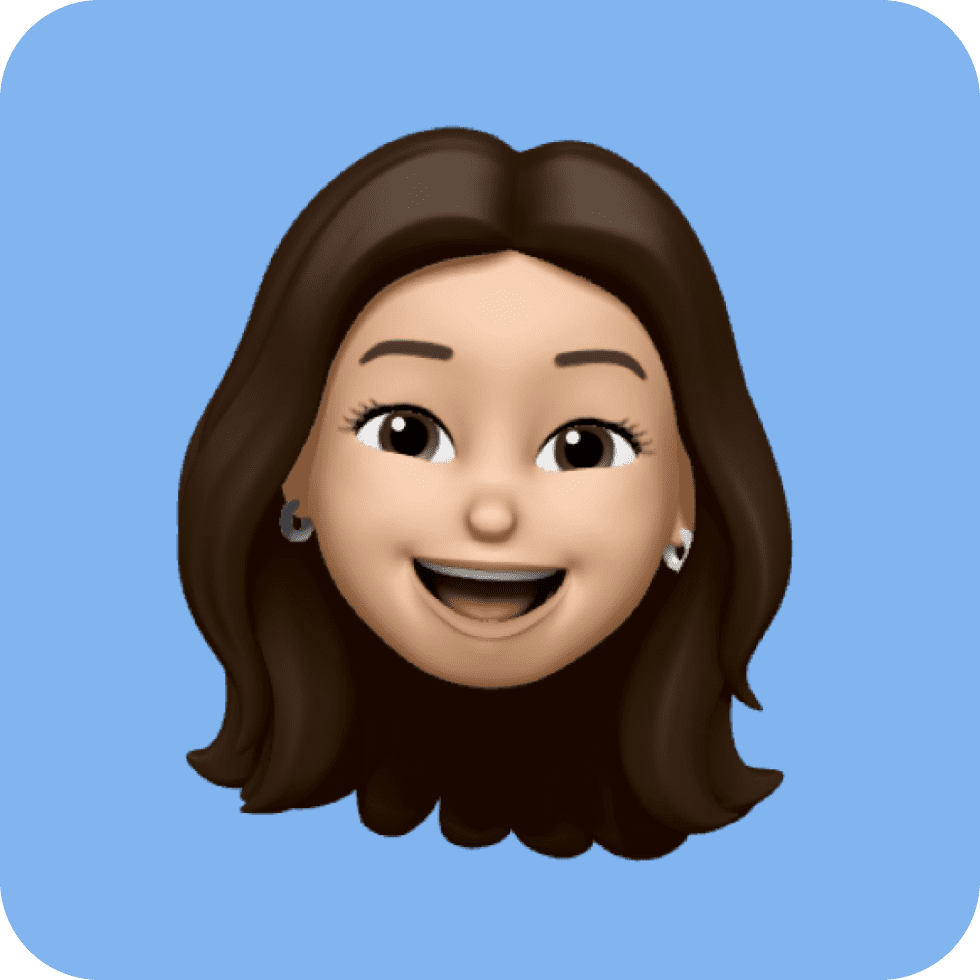
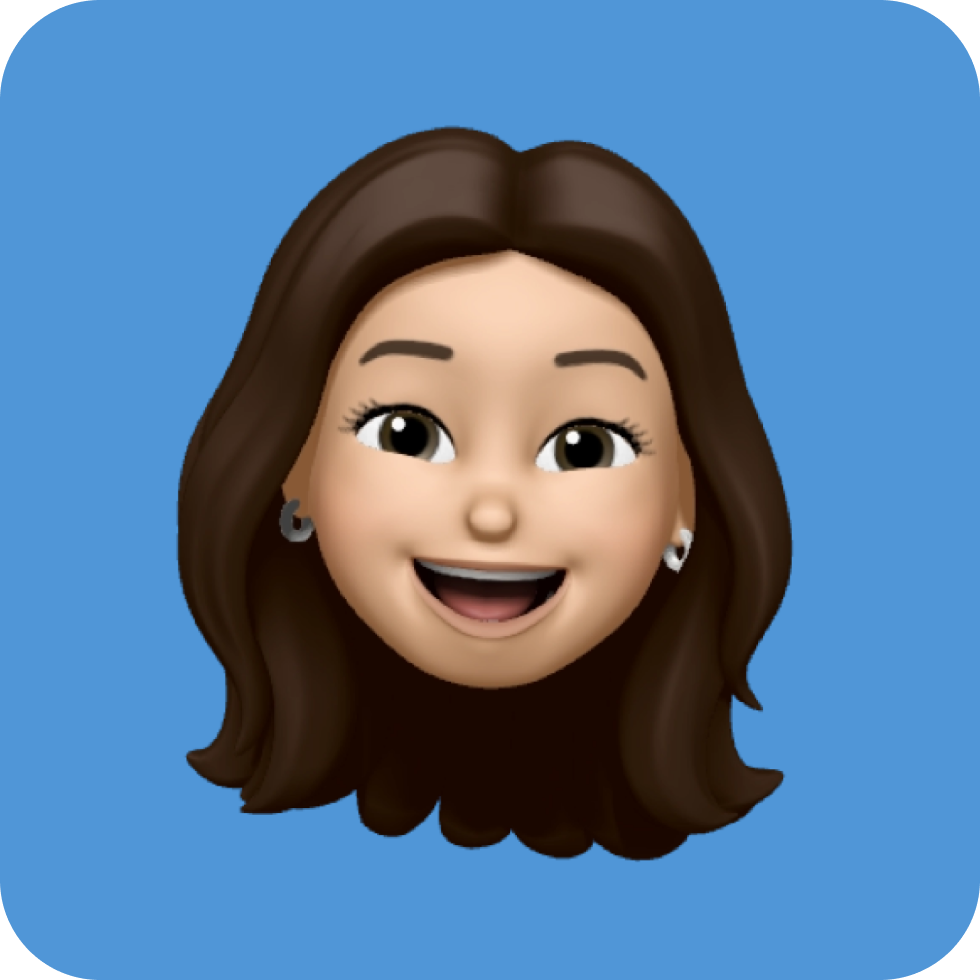
mudança de cor

diff --git a/assets/css/style.css b/assets/css/style.css
@@ -9,12 +9,12 @@ body {
 }
 
 a {
-    color: #F5A0AA;
+    color: #DC828C;
     text-decoration: none;
 }
 
 a:hover {
-    color: #F5A0AA;
+    color: #DC828C;
     text-decoration: none;
 }
 
@@ -39,7 +39,7 @@ h6 {
     right: 15px;
     bottom: 15px;
     z-index: 996;
-    background: #F5A0AA;
+    background: #DC828C;
     width: 40px;
     height: 40px;
     border-radius: 50px;
@@ -53,7 +53,7 @@ h6 {
 }
 
 .back-to-top:hover {
-    background: #F5A0AA;
+    background: #DC828C;
     color: #f7f7f7;
 }
 
@@ -90,7 +90,7 @@ h6 {
 }
 
 #header.header-scrolled {
-    background: #82B4F0;
+    background: #5096D7;
     height: 60px;
 }
 
@@ -162,7 +162,7 @@ h6 {
     height: 2px;
     bottom: 3px;
     left: 30px;
-    background-color: #F5A0AA;
+    background-color: #DC828C;
     visibility: hidden;
     width: 0px;
     transition: all 0.3s ease-in-out 0s;
@@ -212,7 +212,7 @@ h6 {
     right: 0;
     left: 0;
     bottom: 0;
-    background: #82B4F0;
+    background: #5096D7;
     transition: 0.3s;
     z-index: 999;
 }
@@ -245,13 +245,13 @@ h6 {
 .navbar-mobile a:focus {
     padding: 10px 20px;
     font-size: 15px;
-    color: #82B4F0;
+    color: #5096D7;
 }
 
 .navbar-mobile a:hover,
 .navbar-mobile .active,
 .navbar-mobile li:hover>a {
-    color: #F5A0AA;
+    color: #DC828C;
 }
 
 
@@ -301,7 +301,7 @@ section {
     font-weight: 650;
     text-transform: uppercase;
     font-family: "Goldplay", "Nunito", sans-serif;
-    color: #F5A0AA;
+    color: #DC828C;
 }
 
 @media (max-width: 991px) {
@@ -351,7 +351,7 @@ section {
     border-radius: 50px;
     transition: 0.5s;
     color: #F7F7F7;
-    background: #F5A0AA;
+    background: #DC828C;
     box-shadow: 0px 2px 10px rgba(0, 0, 0, 0.1);
     border-radius: 50px;
     text-align: center;
@@ -359,7 +359,7 @@ section {
 
 .sobre .btn-quero-apoiar:hover {
     background: #F7F7F7;
-    color: #F5A0AA;
+    color: #DC828C;
 }
 
 @media (max-width: 991px) {
@@ -405,7 +405,7 @@ section {
     border-radius: 50px;
     transition: 0.5s;
     color: #F7F7F7;
-    background: #F5A0AA;
+    background: #DC828C;
     box-shadow: 0px 2px 10px rgba(0, 0, 0, 0.1);
     border-radius: 50px;
     text-align: center;
@@ -413,7 +413,7 @@ section {
 
 .criando-seu-case .btn-ver-template:hover {
     background: #F7F7F7;
-    color: #F5A0AA;
+    color: #DC828C;
 }
 
 @media (max-width: 991px) {
@@ -446,14 +446,14 @@ section {
 --------------------------------------------------------------*/
 
 #footer {
-    background: #82B4F0;
+    background: #5096D7;
     padding: 0 0 30px 0;
     color: #f7f7f7;
     font-size: 16px;
 }
 
 #footer .copyright {
-    color: #111;
+    color: #F7F7F7;
     text-align: center;
     padding-top: 30px;
 }
@@ -461,10 +461,10 @@ section {
 #footer .credits {
     padding-top: 10px;
     text-align: center;
-    color: #111;
+    color: #F7F7F7;
 }
 
 #footer .credits a {
-    color: #111;
+    color: #F7F7F7;
     font-weight: 700;
 }

diff --git a/assets/css/cards.css b/assets/css/cards.css
@@ -191,7 +191,7 @@
     padding: 10px 140px;
     border-radius: 50px;
     transition: 0.3s;
-    color: #1B1B1B;
+    color: #2c6aa4;
     background: #F7F7F7;
     box-shadow: 0px 2px 10px rgba(0, 0, 0, 0.1);
     border-radius: 50px;
@@ -199,7 +199,7 @@
 
 .cursos .btn-ver-todos:hover {
     color: #F7F7F7;
-    background: #82B4F0;
+    background: #5096D7;
     box-shadow: 0px 2px 10px rgba(0, 0, 0, 0.05);
 }
 

diff --git a/assets/css/cursos.css b/assets/css/cursos.css
@@ -120,7 +120,7 @@
     position: relative;
     display: flex;
     flex-direction: column;
-    background: #82B4F0;
+    background: #5096D7;
     border: 0.3px solid #DFDFDF;
     backdrop-filter: blur(5px);
     width: 20%;
